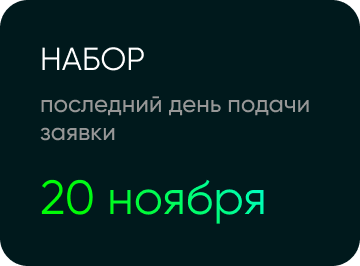
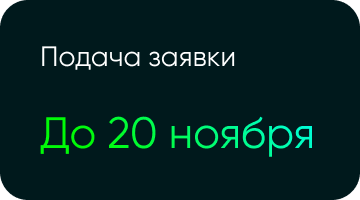
change mik-461

diff --git a/mik-461/Квалифицированный заказчик НИОКР.html b/mik-461/Квалифицированный заказчик НИОКР.html
@@ -142,7 +142,7 @@
                                                         <tbody>
                                                         <tr>
                                                             <td style="width:180px;">
-                                                                <img alt="Формат: изучайте в удобное вам время. Онлайн" height="auto" src="https://cp.unisender.com/ru/user_file?resource=images&user_id=5608985&name=mik-461-content-img-1_1.png" style="border:0;display:block;outline:none;text-decoration:none;height:auto;width:100%;font-size:13px;" width="180" />
+                                                                <img alt="Формат: онлайн" height="auto" src="https://cp.unisender.com/ru/user_file?resource=images&user_id=5608985&name=mik-461-content-img-1_1.png" style="border:0;display:block;outline:none;text-decoration:none;height:auto;width:100%;font-size:13px;" width="180" />
                                                             </td>
                                                         </tr>
                                                         </tbody>
@@ -182,7 +182,7 @@
                                                         <tbody>
                                                         <tr>
                                                             <td style="width:180px;">
-                                                                <img alt="Набор: последний день подачи заявки - 20 ноября" height="auto" src="https://cp.unisender.com/ru/user_file?resource=images&user_id=5608985&name=mik-461-content-img-1_3.png" style="border:0;display:block;outline:none;text-decoration:none;height:auto;width:100%;font-size:13px;" width="180" />
+                                                                <img alt="Подача заявки: До 20 ноября" height="auto" src="https://cp.unisender.com/ru/user_file?resource=images&user_id=5608985&name=mik-461-content-img-1_3.png" style="border:0;display:block;outline:none;text-decoration:none;height:auto;width:100%;font-size:13px;" width="180" />
                                                             </td>
                                                         </tr>
                                                         </tbody>
